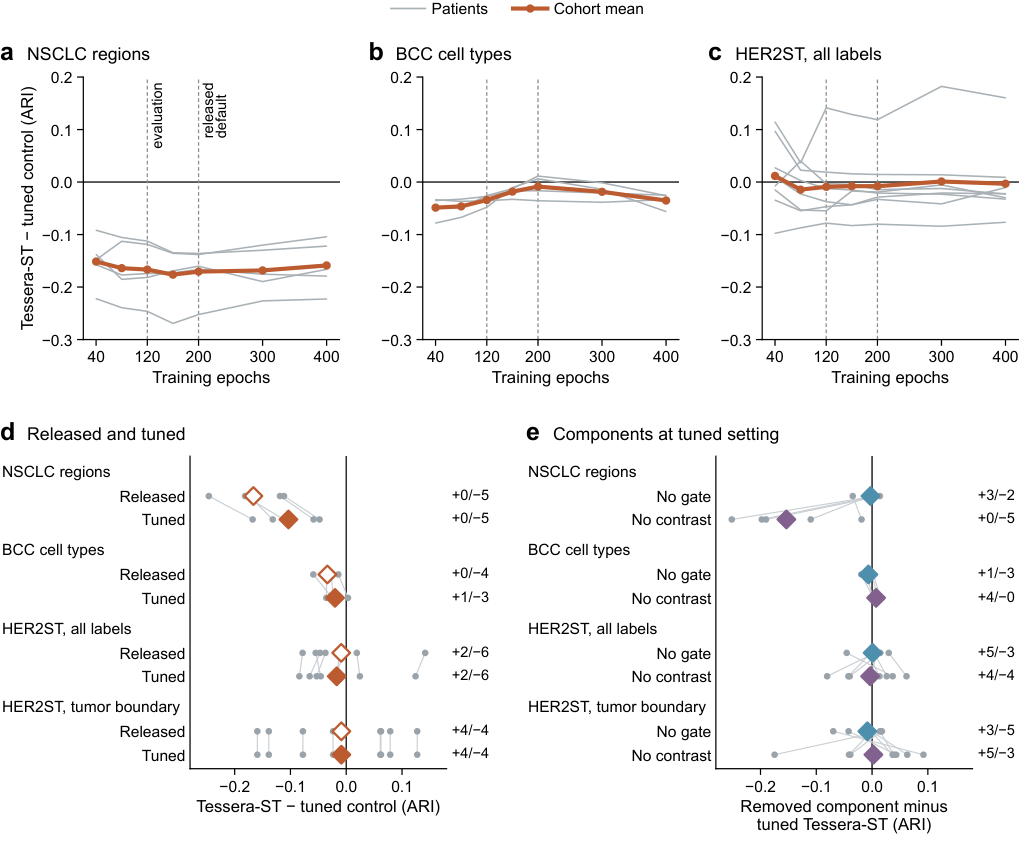
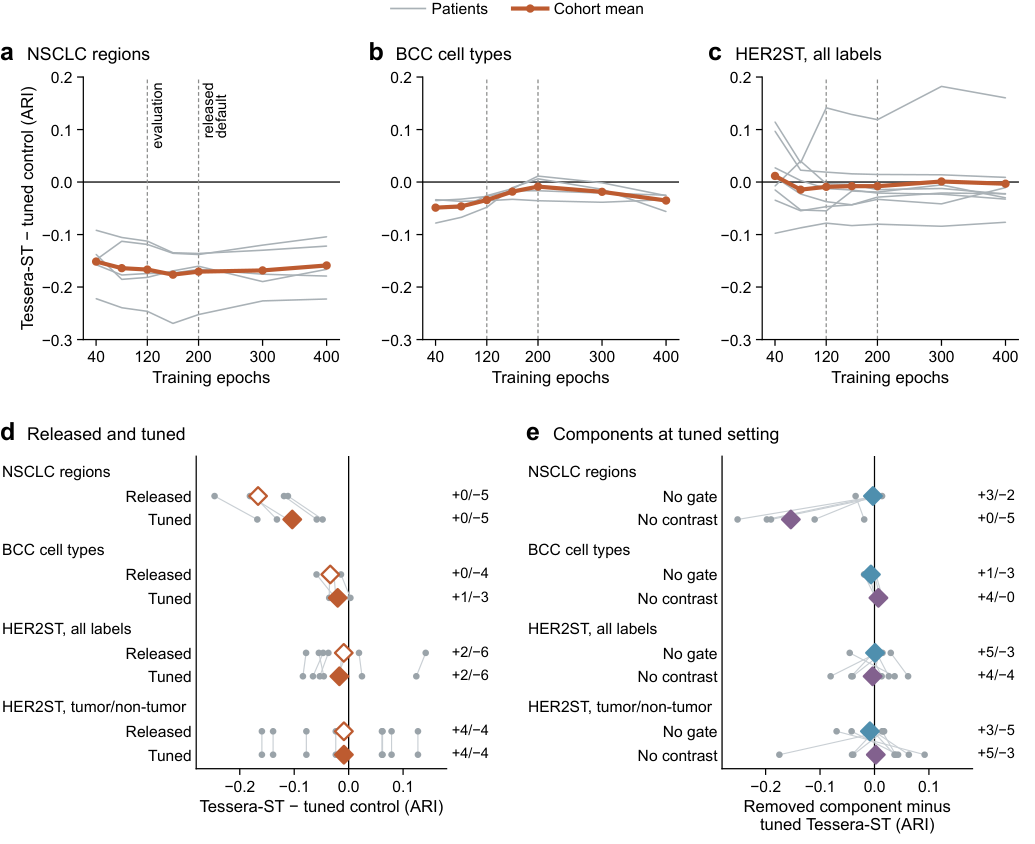
Run amendment A4 and name the breast target tumor/non-tumor
Adds the partition-agreement mode to the cluster-number runner and the A4
part of the analysis (leave-one-out breast control selection, agreement
between and within representations, transfer by fold), with its macros
and table. The HER2ST two-class target is labelled tumor/non-tumor in the
generated tables and figures, and the transfer figure's six-neighbor
control keeps its own name because it averages directed neighbor lists
rather than the encoder's graph. Plotted data are unchanged.

diff --git a/revision-r1/analyze_r1.py b/revision-r1/analyze_r1.py
@@ -228,6 +228,56 @@ def a3(comps):
     return out, table
 
 
+def a4(comps):
+    """Amendment A4: leave-one-patient-out control selection, partition agreement and transfer by fold."""
+    out, table = {}, None
+    hard = json.loads((EXT / 'run-hardening.json').read_text())['result']['targets']['all']
+    grid = pd.read_csv(EXT / 'hardening' / 'grid.csv')
+    means = grid[grid.target == 'all'].groupby(['unit', 'config']).ari.mean().unstack()
+    candidates = [k for k in means.columns if not str(k).startswith('PCA50')]
+    units = sorted(hard['per_unit'])
+    tessera = pd.Series({u: float(hard['per_unit'][u]['Tessera']) for u in units})
+
+    def select(pool, held):
+        return str(means.loc[[u for u in pool if u != held], candidates].mean().idxmax())
+    full = {u: select(units, u) for u in units}
+    if full != hard['selected_control']:
+        raise ValueError('A4: full selection does not reproduce the saved selections')
+    full_delta = float(np.mean([tessera[u] - means.loc[u, full[u]] for u in units]))
+    by_omitted = {}
+    for omit in units:
+        pool = [u for u in units if u != omit]
+        by_omitted[omit] = float(np.mean([tessera[u] - means.loc[u, select(pool, u)] for u in pool]))
+    values = np.array(list(by_omitted.values()))
+    out['loo_all'] = dict(full=full_delta, by_omitted=by_omitted, min=float(values.min()), max=float(values.max()),
+                          n_neg=int((values < 0).sum()), n=len(values))
+    f = E3 / 'E3_agreement.csv'
+    if f.exists():
+        a = pd.read_csv(f)
+        per = a.groupby(['cohort', 'target', 'unit', 'kind', 'a', 'b']).ari.mean().reset_index()
+        per.to_csv(SUMMARY / 'table_A4_agreement.csv', index=False)
+        agree = {}
+        for (cohort, target), g in per.groupby(['cohort', 'target']):
+            entry = {}
+            for (kind, x, y), h in g.groupby(['kind', 'a', 'b']):
+                entry[f'{kind}|{x}|{y}'] = dict(mean=float(h.ari.mean()), min=float(h.ari.min()),
+                                                 max=float(h.ari.max()), n=int(len(h)))
+            agree[f'{cohort}|{target}'] = entry
+        out['agreement'] = agree
+        table = agree
+    led = next(d for d in [c.PROJECT / 'manuscripts/scientific-reports/source/manuscript/ledgers',
+                           c.REPO / 'current-release/source/manuscript/ledgers'] if d.exists())
+    primary = pd.read_csv(led / 'all_transfer_scores.csv').groupby(['patient', 'arm', 'target']).balanced_accuracy.mean()
+    means_t = pd.read_csv(FOLLOW / 'transfer_neighbor_mean.csv').set_index(['patient', 'arm', 'target']).balanced_accuracy
+    tess = pd.Series({n: float(primary.loc[(n, 'Tessera', 'region')]) for n in c.LUNG})
+    wide = pd.Series({n: float(means_t.loc[(n, 'NeighborMean-k200', 'region')]) for n in c.LUNG})
+    keep = [n for n in c.LUNG if n != 'NSCLC_Lung6']
+    out['transfer_by_fold'] = dict(mean200_above_tessera=int((wide > tess).sum()), folds=len(tess),
+                                   mean200_without_lung6=float(wide[keep].mean()),
+                                   tessera_without_lung6=float(tess[keep].mean()))
+    return out, table
+
+
 def tuning_summary(comps, sel, mech, cohorts, k_max, table_name):
     out, rows = {}, []
     for cohort, target in cohorts:
@@ -689,6 +739,30 @@ def write_macros(summary):
         if e:
             mac('RHerEOneSeedMin', fmt(e[0]))
             mac('RHerEOneSeedMax', fmt(e[1]))
+    a4s = summary.get('A4', {})
+    if 'loo_all' in a4s:
+        v = a4s['loo_all']
+        mac('RLooAllFull', fmt(v['full'], True))
+        mac('RLooAllMin', fmt(v['min'], True))
+        mac('RLooAllMax', fmt(v['max'], True))
+        mac('RLooAllNeg', v['n_neg'])
+    for key, tag in [('NSCLC|primary', 'Lung'), ('BCC|primary', 'Bcc'), ('HER2ST|all', 'HerAll'),
+                     ('HER2ST|boundary_T1', 'HerBnd')]:
+        v = a4s.get('agreement', {}).get(key)
+        if not v:
+            continue
+        for pair, short in [('between|SameGraphMean|Tessera120', 'TessMean'), ('between|TunedControl|Tessera120', 'TessCtl'),
+                            ('between|PCA50|Tessera120', 'TessPca'), ('between|SameGraphMean|TunedControl', 'MeanCtl'),
+                            ('within|Tessera120|Tessera120', 'SeedTess'), ('within|SameGraphMean|SameGraphMean', 'SeedMean'),
+                            ('within|TunedControl|TunedControl', 'SeedCtl'), ('within|PCA50|PCA50', 'SeedPca')]:
+            mac(f'RAgree{tag}{short}', fmt(v[pair]['mean']))
+        mac(f'RAgree{tag}TessMeanMin', fmt(v['between|SameGraphMean|Tessera120']['min']))
+        mac(f'RAgree{tag}TessMeanMax', fmt(v['between|SameGraphMean|Tessera120']['max']))
+    if 'transfer_by_fold' in a4s:
+        v = a4s['transfer_by_fold']
+        mac('RTransferWideWins', v['mean200_above_tessera'])
+        mac('RTransferWideNoSix', fmt(v['mean200_without_lung6']))
+        mac('RTransferTessNoSix', fmt(v['tessera_without_lung6']))
     MACROS.write_text('\n'.join(lines) + '\n')
 
 
@@ -720,7 +794,7 @@ PATIENT_LABEL = {'NSCLC_Lung5_Rep2': 'Lung5\\_Rep2', 'NSCLC_Lung6': 'Lung6', 'NS
                  'NSCLC_Lung12': 'Lung12', 'NSCLC_Lung13': 'Lung13', 'BCC_PatientA': 'BCC A', 'BCC_PatientB': 'BCC B',
                  'BCC_PatientC': 'BCC C', 'BCC_PatientD': 'BCC D'}
 BLOCK = {('NSCLC', 'primary'): 'NSCLC regions', ('BCC', 'primary'): 'BCC cell types',
-         ('HER2ST', 'all'): 'HER2ST, all labels', ('HER2ST', 'boundary_T1'): 'HER2ST, tumor boundary'}
+         ('HER2ST', 'all'): 'HER2ST, all labels', ('HER2ST', 'boundary_T1'): 'HER2ST, tumor/non-tumor'}
 
 
 def n3(x):
@@ -780,12 +854,25 @@ def write_tables(tables: dict) -> None:
     t3 = tables.get('A3')
     lines = []
     if t3 is not None and len(t3):
-        for target, label in [('all', 'HER2ST, all labels'), ('boundary_T1', 'HER2ST, tumor boundary')]:
+        for target, label in [('all', 'HER2ST, all labels'), ('boundary_T1', 'HER2ST, tumor/non-tumor')]:
             lines.append(f'\\multicolumn{{7}}{{@{{}}l}}{{\\emph{{{label}}}}}\\\\')
             for r in t3[t3.target == target].itertuples():
                 lines.append(f'{r.patient} & {n3(r.tessera_3)} & {n3(r.tessera_10)} & {n3(r.seed_min)}--{n3(r.seed_max)} & '
                              f'{n3(r.control)} & {n3(r.same_graph_mean)} & {fmt(r.tessera_10 - r.control, True)}\\\\')
     bodies['RTableSeeds'] = '\n'.join(lines)
+    agree = tables.get('A4')
+    lines = []
+    if agree:
+        for key, label in BLOCK.items():
+            v = agree.get(f'{key[0]}|{key[1]}')
+            if not v:
+                continue
+            cells = [n3(v[pair]['mean']) for pair in [
+                'between|SameGraphMean|Tessera120', 'between|TunedControl|Tessera120', 'between|PCA50|Tessera120',
+                'between|SameGraphMean|TunedControl', 'within|Tessera120|Tessera120', 'within|SameGraphMean|SameGraphMean',
+                'within|TunedControl|TunedControl', 'within|PCA50|PCA50']]
+            lines.append(f'{label} & ' + ' & '.join(cells) + '\\\\')
+    bodies['RTableAgreement'] = '\n'.join(lines)
     bodies['RTableK'] = tables.get('E3summary') or ''
     if tables.get('E4') is not None and len(tables['E4']):
         t4 = tables['E4']
@@ -795,7 +882,7 @@ def write_tables(tables: dict) -> None:
             mean = getattr(r, 'minus_SameGraphMean', None)
             ctl_s = f"{fmt(ctl['mean'], True)} ({ctl['n_neg']}/{ctl['n']})" if isinstance(ctl, dict) else '--'
             mean_s = f"{fmt(mean['mean'], True)} ({mean['n_neg']}/{mean['n']})" if isinstance(mean, dict) else '--'
-            tgt = {'primary': 'regions', 'cell_type': 'cell types', 'all': 'all labels', 'boundary_T1': 'boundary'}[r.target]
+            tgt = {'primary': 'regions', 'cell_type': 'cell types', 'all': 'all labels', 'boundary_T1': 'tumor/non-tumor'}[r.target]
             clus = 'K-means' if r.clustering == 'kmeans_matched' else 'native'
             names = {'lambda0.8': '$\\lambda=0.8$', 'lambda0.2': '$\\lambda=0.2$', 'celltype': 'cell-type graph',
                      'expression': 'expression graph'}
@@ -835,13 +922,13 @@ def k_table(summary) -> str:
 
 def main():
     p = argparse.ArgumentParser()
-    p.add_argument('--parts', nargs='+', default=['E1', 'E2', 'E2W', 'A2', 'A3', 'E3', 'E4'])
+    p.add_argument('--parts', nargs='+', default=['E1', 'E2', 'E2W', 'A2', 'A3', 'A4', 'E3', 'E4'])
     args = p.parse_args()
     SUMMARY.mkdir(parents=True, exist_ok=True)
     comps = comparators()
     comps.to_csv(SUMMARY / 'comparators.csv', index=False)
     summary, tables = {}, {}
-    for part, fn in [('E1', e1), ('E2', e2), ('E2W', e2_wide), ('A2', a2_lung), ('A3', a3), ('E3', e3), ('E4', e4)]:
+    for part, fn in [('E1', e1), ('E2', e2), ('E2W', e2_wide), ('A2', a2_lung), ('A3', a3), ('A4', a4), ('E3', e3), ('E4', e4)]:
         if part in args.parts:
             summary[part], tables[part] = fn(comps)
     if 'E3' in summary:

diff --git a/revision-r1/run_k_sweep.py b/revision-r1/run_k_sweep.py
@@ -5,12 +5,14 @@ Modes:
   sweep          K grid x {Euclidean, cosine} K-means, shared label-free K, Leiden (secondary)
   harmonize      HER2ST per-K-head refits on CPU (one thread) for comparison with the fixed head
   refine         matched majority-vote refinement sensitivity at K_ref
+  agreement      Amendment A4: partition agreement between representations and between seeds at K_ref
 Run after E1 (which supplies the 200-epoch embeddings and the HER2ST fixed-head fits).
 """
 from __future__ import annotations
 
 import argparse
 import hashlib
+import itertools
 import json
 import multiprocessing as mp
 import time
@@ -238,20 +240,62 @@ def run_refine(processes):
     pd.DataFrame(rows).to_csv(E3 / 'E3_refinement.csv', index=False)
 
 
+AGREEMENT_TARGETS = {('NSCLC', 'primary'), ('BCC', 'primary'), ('HER2ST', 'all'), ('HER2ST', 'boundary_T1')}
+AGREEMENT_REPS = ['PCA50', 'SameGraphMean', 'TunedControl', 'Tessera120']
+
+
+def agreement_job(args):
+    """Amendment A4: ARI between partitions at K_ref (Euclidean K-means), across representations and across seeds."""
+    index, target = args
+    torch.set_num_threads(1)
+    unit = UNITS[index]
+    k_ref = len(unit['targets'][target][1])
+    parts = {}
+    for name, rep_seed, array in representations(unit, target):
+        if name not in AGREEMENT_REPS:
+            continue
+        for seed in (c.SEEDS if rep_seed is None else [rep_seed]):
+            parts[(name, seed)] = KMeans(k_ref, n_init=10, random_state=seed).fit(array).labels_
+    names = [n for n in AGREEMENT_REPS if (n, c.SEEDS[0]) in parts]
+    base = dict(unit=unit['name'], cohort=unit['cohort'], target=target, K_ref=k_ref, n_obs=len(parts[(names[0], 1)]))
+    rows = []
+    for seed in c.SEEDS:
+        for a, b in itertools.combinations(names, 2):
+            rows.append(dict(base, kind='between', a=a, b=b, seed_a=seed, seed_b=seed,
+                             ari=float(adjusted_rand_score(parts[(a, seed)], parts[(b, seed)]))))
+    for name in names:
+        for s, t in itertools.combinations(c.SEEDS, 2):
+            rows.append(dict(base, kind='within', a=name, b=name, seed_a=s, seed_b=t,
+                             ari=float(adjusted_rand_score(parts[(name, s)], parts[(name, t)]))))
+    return rows
+
+
+def run_agreement(processes):
+    jobs = [(i, t) for i, u in enumerate(UNITS) for t in u['targets'] if (u['cohort'], t) in AGREEMENT_TARGETS]
+    with mp.get_context('fork').Pool(processes) as pool:
+        rows = [r for part in pool.imap_unordered(agreement_job, jobs) for r in part]
+    pd.DataFrame(rows).sort_values(['cohort', 'target', 'unit', 'kind', 'a', 'b', 'seed_a', 'seed_b']).to_csv(
+        E3 / 'E3_agreement.csv', index=False)
+
+
 UNITS: list[dict] = []
 
 
 def main():
     global UNITS
     p = argparse.ArgumentParser()
-    p.add_argument('mode', choices=['sweep', 'harmonize', 'refine'])
+    p.add_argument('mode', choices=['sweep', 'harmonize', 'refine', 'agreement'])
     p.add_argument('--processes', type=int, default=10)
     args = p.parse_args()
-    c.write_lock(E3, 'E3 cluster number and geometry')
+    if args.mode == 'agreement':
+        c.write_lock(E3, 'A4 partition agreement', name='run-lock-A4.json')
+    else:
+        c.write_lock(E3, 'E3 cluster number and geometry')
     started = time.perf_counter()
-    if args.mode in ('sweep', 'refine'):
+    if args.mode in ('sweep', 'refine', 'agreement'):
         UNITS = build_units()
-    {'sweep': run_sweep, 'harmonize': run_harmonize, 'refine': run_refine}[args.mode](args.processes)
+    {'sweep': run_sweep, 'harmonize': run_harmonize, 'refine': run_refine,
+     'agreement': run_agreement}[args.mode](args.processes)
     print('E3', args.mode, 'done in', round(time.perf_counter() - started), 's', flush=True)
 
 

diff --git a/revision-r1/figures/r1_statistical.py b/revision-r1/figures/r1_statistical.py
@@ -336,7 +336,7 @@ def figure_07():
     mean_names = sorted(set(means.index.get_level_values('arm')), key=lambda a: float(''.join(c for c in a if c.isdigit())))
     assert mean_names == ['NeighborMean-k6', 'NeighborMean-k200'], mean_names
     arms = ['PCA50', 'SelfOnly', mean_names[0], mean_names[1], 'Tessera']
-    labels = ['PCA50', 'Self-only', SGM, '200-neighbor mean', TST]
+    labels = ['PCA50', 'Self-only', 'Six-neighbor mean', '200-neighbor mean', TST]
     colors = [COLOR['PCA50'], COLOR['SelfOnly'], COLOR['NeighborMean'], COLOR['Mean200'], COLOR['Tessera']]
     cv = Canvas(400)
     gap_x, gap_y = 10, 4
@@ -403,7 +403,7 @@ def arm_dots(ax, target, xlim, ticks):
     return {c: [per[u][c] for u in units] for c, *_ in ARM_DOT_COLUMNS}
 
 
-FOREST_TARGETS = [('All labels', 'all'), ('Compartments', 'compartments'), ('Tumor boundary', 'boundary_T1')]
+FOREST_TARGETS = [('All labels', 'all'), ('Compartments', 'compartments'), ('Tumor/non-tumor', 'boundary_T1')]
 FOREST_SPEC = [('Tessera_minus_UniformSameGraph', f'{TST} {MINUS} same-graph mean', 'Tessera'),
                ('Tessera_minus_NestedControl', f'{TST} {MINUS} tuned control', 'Tessera'),
                ('UniformSameGraph_minus_NestedControl', f'{SGM} {MINUS} tuned control', 'NeighborMean')]
@@ -471,7 +471,7 @@ def seam_dots(ax):
     ax.axvline(.5, color=S.GRAY, lw=.8, ls='--', zorder=0)
     ax.set_xlim(.33, .78)
     ax.set_xticks([.4, .5, .6, .7])
-    ax.set_xlabel('Seam AUROC on tumor-boundary edges')
+    ax.set_xlabel('Seam AUROC on tumor/non-tumor edges')
     return {c: {'per_unit': [seam['per_unit'][u][c] for u in units], 'mean': seam['mean'][c]} for c, *_ in SEAM_COLUMNS}
 
 
@@ -558,7 +558,7 @@ def figure_S15():
     row, h = 17, 214
     gap = 8
     w = (W - 2 * gap) / 3
-    a = cv.panel(0, row, w, h, 'a', 'Tumor boundary', left=16, bottom=X_AXIS, right=8)
+    a = cv.panel(0, row, w, h, 'a', 'Tumor/non-tumor', left=16, bottom=X_AXIS, right=8)
     rec_a = arm_dots(a, 'boundary_T1', (-.04, .8), [0, .2, .4, .6, .8])
     b = cv.panel(w + gap, row, w, h, 'b', 'Replicate fits', left=16, bottom=X_AXIS, right=8)
     rec_b = replicate_dots(b)

diff --git a/revision-r1/figures/r1_style.py b/revision-r1/figures/r1_style.py
@@ -108,6 +108,9 @@ SHORT = {n: n.replace('NSCLC_', '').replace('BCC_Patient', 'BCC ').replace('Brea
 LUNG, BCC = OBJECTS[:5], OBJECTS[5:9]
 SEEDS = [1, 2, 3]
 BANNED = [r'Tessera(?!-ST)', r'Neighbou?r mean', r'[Ss]ix-neighbou?r', r'\bMean 6\b', r'\$']
+# The transfer figure's six-neighbor control averages directed nearest-neighbor lists, so it is not the same-graph
+# mean and keeps its own name there.
+ALLOWED = {'figure-07': {r'[Ss]ix-neighbou?r'}}
 
 INPUTS: dict[str, str] = {}
 PLOT_DATA: dict[str, object] = {}
@@ -412,6 +415,8 @@ def save(cv, name, plot_data=None):
     for artist in visible_texts(fig):
         text = artist.get_text()
         for pattern in BANNED:
+            if pattern in ALLOWED.get(name, ()):
+                continue
             assert not re.search(pattern, text), (name, text, pattern)
         assert artist.get_fontfamily() == [FAMILY], (name, text, artist.get_fontfamily())
         weight = artist.get_fontweight()

diff --git a/revision-r1/figures/tests/test_r1_figures.py b/revision-r1/figures/tests/test_r1_figures.py
@@ -82,7 +82,9 @@ def test_fonts_are_arial_only(name):
 def test_names(name):
     content = text(PDF / (name + '.pdf'))
     assert not re.search(r'Tessera(?!-ST)', content), name
-    assert not re.search(r'Neighbou?r mean|[Ss]ix-neighbou?r|\bMean 6\b|\bMean 200\b', content), name
+    # The transfer figure's six-neighbor control averages directed nearest-neighbor lists; it is not the same-graph mean.
+    banned = r'Neighbou?r mean|\bMean 6\b|\bMean 200\b' if name == 'figure-07' else r'Neighbou?r mean|[Ss]ix-neighbou?r|\bMean 6\b|\bMean 200\b'
+    assert not re.search(banned, content), name
 
 
 @pytest.mark.parametrize('name', EXPECTED)

diff --git a/revision-r1/figures/r1_new_figures.py b/revision-r1/figures/r1_new_figures.py
@@ -21,7 +21,7 @@ from r1_style import COLOR, INK, LEGEND, LIGHT, MINUS, NOTE, TICK, TST, W, X_AXI
 
 SUMMARY = Path(os.environ.get('TESSERA_R1_SUMMARY') or S.RESULTS / 'revision-r1/summary')
 TARGETS = [('NSCLC', 'primary', 'NSCLC regions'), ('BCC', 'primary', 'BCC cell types'),
-           ('HER2ST', 'all', 'HER2ST, all labels'), ('HER2ST', 'boundary_T1', 'HER2ST, tumor boundary')]
+           ('HER2ST', 'all', 'HER2ST, all labels'), ('HER2ST', 'boundary_T1', 'HER2ST, tumor/non-tumor')]
 PATIENT_LINE = '#a9b1b6'
 DOT = '#9aa3a9'
 GUIDE = '#8c8c8c'
